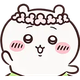
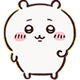
fix : 커서 기본·호버를 각각 한 시리즈로 통일해 캐릭터 간 일관성 확보

diff --git a/scripts/cursor.py b/scripts/cursor.py
@@ -2,36 +2,27 @@
 """
 캐릭터 얼굴로 마우스 커서 이미지를 만든다.
 
-기본 커서는 극장판 공식 사이트의 캐릭터 아이콘을 쓴다. 이미 배경이 투명이라 벗겨 낼 필요가 없다.
-누를 수 있는 곳 위에서는 표정이 다른 일러스트로 바뀐다. 이쪽은 원형 배지라 원을 벗겨 내야 한다.
-둘 다 목 아래를 잘라 얼굴만 남긴다.
+기본은 애니메이션 공식 사이트의 캐릭터 버튼, 호버는 극장판 공식 사이트의 캐릭터 아이콘을 쓴다.
+각각 한 시리즈라 세 캐릭터의 그림체와 크기가 서로 맞는다. 둘 다 배경이 투명하다.
 """
 
 import urllib.request
 from pathlib import Path
 
-from PIL import Image, ImageDraw
+from PIL import Image
 
 OUT = Path("public/cursor")
 SIZE = 40
 UA = "Mozilla/5.0 (Macintosh; Intel Mac OS X 10_15_7) AppleWebKit/537.36 Chrome/124 Safari/537.36"
 
-MOVIE_ICON = {
-    "chiikawa": "https://chiikawa.toho-movie.jp/atm/img/ch_icon_01.webp",
-    "hachiware": "https://chiikawa.toho-movie.jp/atm/img/ch_icon_02.webp",
-    "usagi": "https://chiikawa.toho-movie.jp/atm/img/ch_icon_03.webp",
-}
+SLUGS = ("chiikawa", "hachiware", "usagi")
 
-# 표정이 다른 일러스트. 흰 원 안에 캐릭터가 들어간 배지라 원을 벗겨 낸다.
-HOVER_BADGE = {
-    "chiikawa": "https://chiikawa-biyori.com/wp-content/uploads/2026/07/chiikawa.png",
-    "hachiware": "https://chiikawa-biyori.com/wp-content/uploads/2026/04/hachiware.png",
-    "usagi": "https://chiikawa-biyori.com/wp-content/uploads/2026/04/usagi.png",
-}
+# 평소 표정. 캐릭터 뒤에 노란 원이 깔려 있어 벗겨 내야 한다.
+IDLE = "https://www.anime-chiikawa.jp/images/characters/bt_chara_{n:02d}.png"
+# 입을 크게 벌린 표정.
+HOVER = "https://chiikawa.toho-movie.jp/atm/img/ch_icon_{n:02d}.webp"
 
-FLOOD_TOLERANCE = 26
-# 배지 일러스트는 전신이라 위에서 이만큼만 남기면 얼굴이 된다.
-HEAD_RATIO = 0.84
+HALO = (255, 245, 120)
 
 
 def fetch(url: str) -> Image.Image:
@@ -40,10 +31,29 @@ def fetch(url: str) -> Image.Image:
         return Image.open(response).convert("RGBA")
 
 
+def drop_halo(image: Image.Image) -> None:
+    """우사기 몸(255,241,203)과 섞이지 않게 노란 원 색만 좁게 집어 지운다."""
+    pixels = image.load()
+    for y in range(image.height):
+        for x in range(image.width):
+            r, g, b, a = pixels[x, y]
+            if a and abs(r - HALO[0]) < 12 and abs(g - HALO[1]) < 14 and abs(b - HALO[2]) < 40:
+                pixels[x, y] = (0, 0, 0, 0)
+
+
+def drop_name_plate(image: Image.Image) -> Image.Image:
+    """그림 아래 빈 줄 하나를 두고 이름표가 따로 있다. 첫 덩어리만 남긴다."""
+    alpha = image.getchannel("A")
+    filled = [any(alpha.getpixel((x, y)) > 8 for x in range(image.width)) for y in range(image.height)]
+    top = filled.index(True)
+    bottom = next((y for y in range(top, image.height) if not filled[y]), image.height)
+    return image.crop((0, top, image.width, bottom))
+
+
 def to_square(image: Image.Image) -> Image.Image:
     """여백을 잘라 내고 정사각형 가운데에 놓는다. 그래야 커서 좌표가 어긋나지 않는다."""
     trimmed = image.crop(image.getbbox())
-    side = max(trimmed.width, trimmed.height)
+    side = max(trimmed.size)
     square = Image.new("RGBA", (side, side), (0, 0, 0, 0))
     square.paste(trimmed, ((side - trimmed.width) // 2, (side - trimmed.height) // 2))
     return square
@@ -54,64 +64,15 @@ def save(image: Image.Image, name: str) -> None:
         image.resize((SIZE * scale, SIZE * scale), Image.LANCZOS).save(OUT / f"{name}{suffix}.png")
 
 
-def is_leaf(pixel: tuple[int, int, int, int]) -> bool:
-    """목에 두른 풀잎의 연둣빛. 이 색이 나오는 줄부터 아래는 얼굴이 아니다."""
-    r, g, b, a = pixel
-    return a > 80 and g > 150 and g - r > 25 and g - b > 45
-
-
-def cut_above_leaves(image: Image.Image) -> Image.Image:
-    width, height = image.size
-    for y in range(height):
-        leaves = sum(1 for x in range(0, width, 2) if is_leaf(image.getpixel((x, y))))
-        if leaves > width * 0.05:
-            return image.crop((0, 0, width, y))
-    return image
-
-
-def build_default(slug: str) -> None:
-    icon = fetch(MOVIE_ICON[slug])
-    # 아이콘에는 캐릭터와 이름표가 함께 들어 있다. 위쪽 덩어리만 쓴다.
-    alpha = icon.getchannel("A")
-    filled = [
-        any(alpha.getpixel((x, y)) > 8 for x in range(0, icon.width, 2)) for y in range(icon.height)
-    ]
-    top = filled.index(True)
-    bottom = next((y for y in range(top, icon.height) if not filled[y]), icon.height)
-    save(to_square(cut_above_leaves(icon.crop((0, top, icon.width, bottom)))), slug)
-
-
-def build_hover(slug: str) -> None:
-    badge = fetch(HOVER_BADGE[slug])
-    width, height = badge.size
-
-    # 모서리에서 번지게 하면 배경에 그러데이션이 있을 때 색이 남는다. 원 바깥을 통째로 지운다.
-    # 원을 조금 줄여야 흰 원과 색 배경 사이의 테두리까지 함께 사라진다.
-    edge = round(min(width, height) * 0.045)
-    mask = Image.new("L", (width, height), 0)
-    ImageDraw.Draw(mask).ellipse((edge, edge, width - 1 - edge, height - 1 - edge), fill=255)
-    badge.putalpha(mask)
-
-    # 원 안쪽 가장자리에서 번지면 캐릭터 윤곽에서 멈춰 흰 원만 지워진다.
-    inset = round(min(width, height) * 0.08)
-    for point in (
-        (width // 2, inset),
-        (inset, height // 2),
-        (width - inset, height // 2),
-        (width // 2, height - inset),
-    ):
-        ImageDraw.floodfill(badge, point, (0, 0, 0, 0), thresh=FLOOD_TOLERANCE)
-
-    box = badge.getbbox()
-    head = badge.crop((box[0], box[1], box[2], box[1] + round((box[3] - box[1]) * HEAD_RATIO)))
-    save(to_square(head), f"{slug}-hover")
-
-
 def main() -> None:
     OUT.mkdir(parents=True, exist_ok=True)
-    for slug in MOVIE_ICON:
-        build_default(slug)
-        build_hover(slug)
+    for index, slug in enumerate(SLUGS, start=1):
+        idle = fetch(IDLE.format(n=index))
+        drop_halo(idle)
+        save(to_square(drop_name_plate(idle)), slug)
+
+        hover = fetch(HOVER.format(n=index))
+        save(to_square(drop_name_plate(hover)), f"{slug}-hover")
         print(f"{slug} 기본·호버 생성")
 
 
